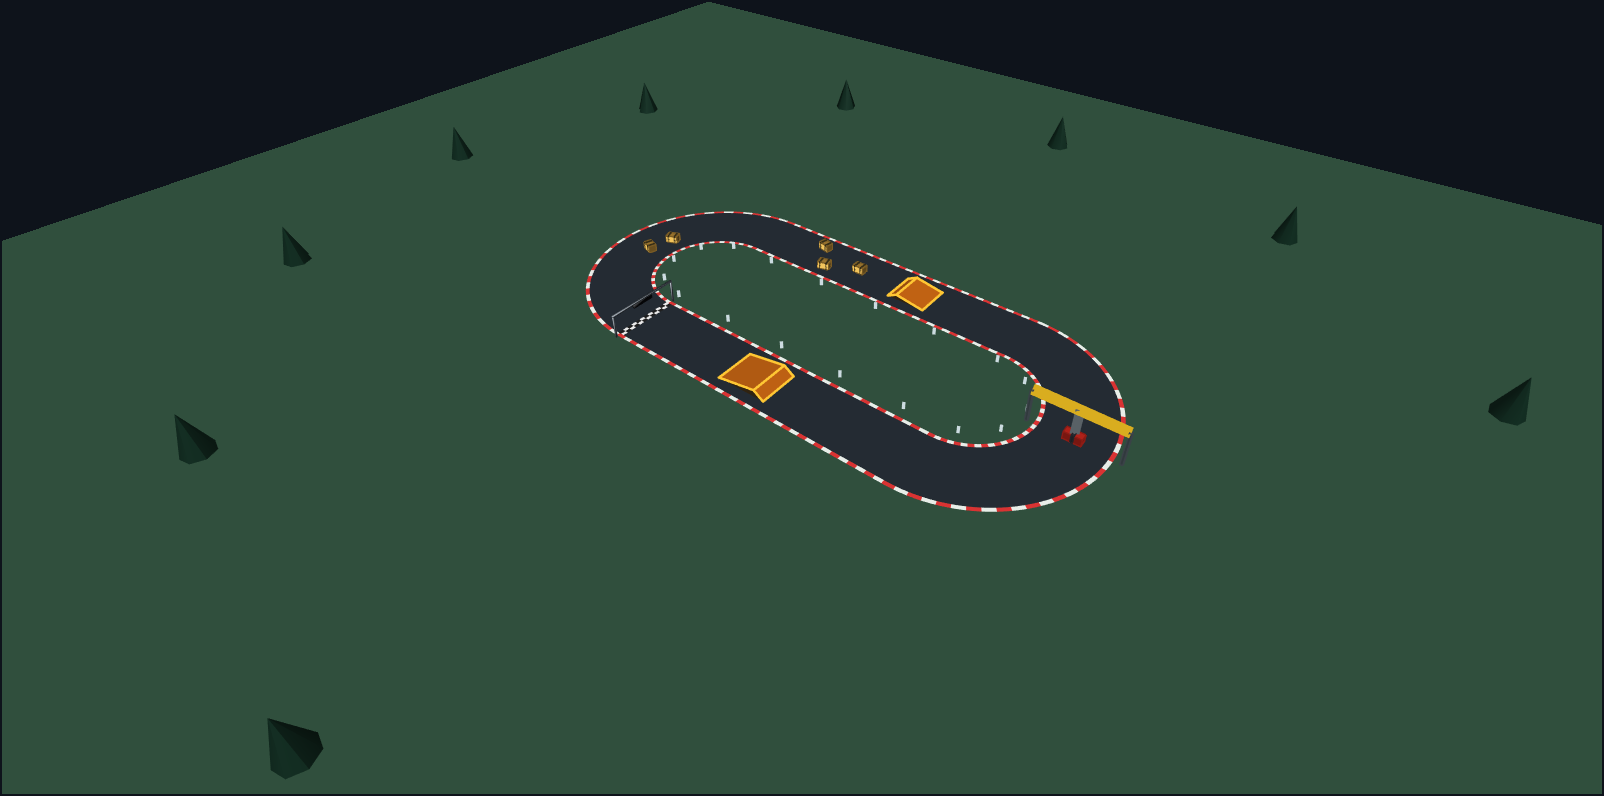
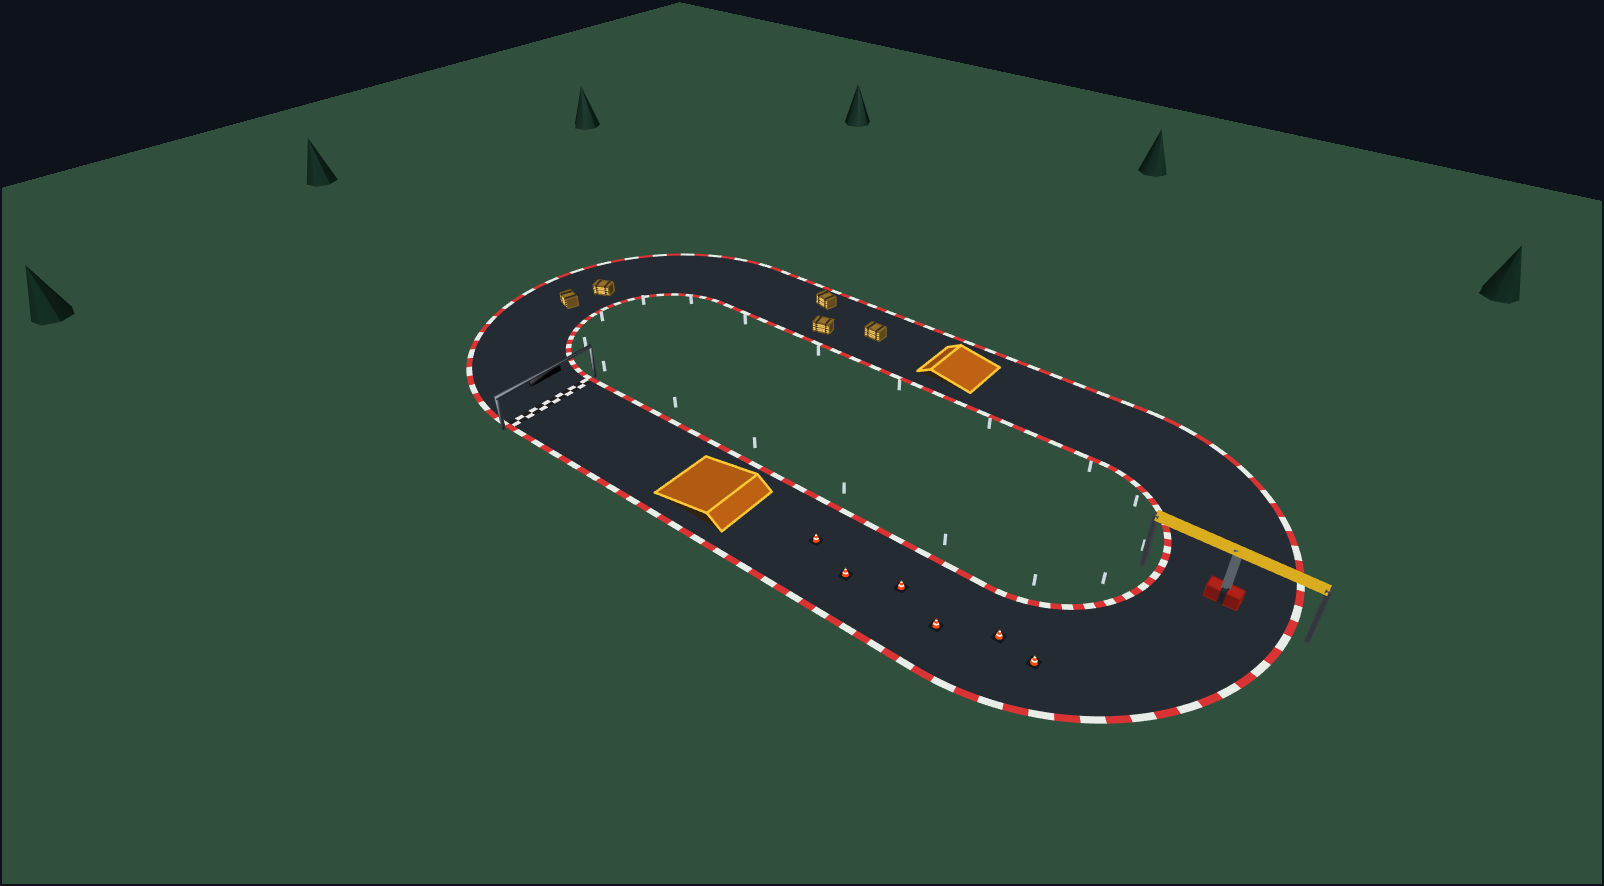
Add movable traffic cones to obstacle course

diff --git a/tests/phx_kart_obstacle_test.m b/tests/phx_kart_obstacle_test.m
@@ -14,6 +14,15 @@ function phx_kart_obstacle_test
     assert(norm(props(1).Position-initial)>.5,'Hay must move after a real kart contact.');
     phxkart.stepCourse(T,props,0,0,true);
     assert(norm(props(1).Position-initial)<1e-9,'Reset must restore hay.');
+    cone=size(T.course.hay,1)+1; initialCone=props(cone).Position;
+    kart.Position=initialCone+[-3 0 -.15]; kart.EulerAngles=[0 0 0];
+    kart.LinearVelocity=[6 0 0]; kart.AngularVelocity=[0 0 0];
+    for k=1:100
+        phxkart.stepCourse(T,props,k*.008,.008,false); sim.step(.008,1,-1);
+    end
+    assert(norm(props(cone).Position-initialCone)>.5,'Cone must slide after contact.');
+    phxkart.stepCourse(T,props,0,0,true);
+    assert(norm(props(cone).Position-initialCone)<1e-9,'Reset must restore cones.');
     % Put a kart in the pendulum sweep and let the moving PHX collider hit it.
     kart.Position=[36 -.3 .25]; kart.LinearVelocity=[0 0 0]; kart.AngularVelocity=[0 0 0];
     speed=0;
@@ -41,7 +50,7 @@ function phx_kart_obstacle_test
     cleanFigure=onCleanup(@()closeValid(f)); api=getappdata(f,'PHXKartDemo');
     for k=1:50, api.Step(); end
     s=api.Snapshot(); assert(size(s.Position,1)==10 && all(isfinite(s.Position),'all'));
-    fprintf('PASS: obstacle course, movable hay, hammer contact, jump/landing, pause/reset and 10-kart split screen.\n');
+    fprintf('PASS: obstacle course, movable hay/cones, hammer contact, jump/landing, pause/reset and 10-kart split screen.\n');
 end
 function closeValid(f), if isgraphics(f), close(f); end, end
 function dispose(sim,bodies)

diff --git a/+phxkart/stepCourse.m b/+phxkart/stepCourse.m
@@ -2,12 +2,17 @@ function stepCourse(T,B,time,dt,reset)
 %STEPCOURSE Ground drag for movable hay; timed physical hammer collider.
     if isempty(B), return; end
     for k=1:numel(B)-1
+        if k<=size(T.course.hay,1)
+            initial=T.course.hay(k,:); height=.55; resistance=2.8;
+        else
+            initial=T.course.cones(k-size(T.course.hay,1),:); height=.4; resistance=4;
+        end
         p=B(k).Position; a=B(k).EulerAngles; v=B(k).LinearVelocity; w=B(k).AngularVelocity;
         if reset
-            p=[T.course.hay(k,1:2) .55]; a=[0 0 T.course.hay(k,3)]; v=[0 0 0]; w=v;
+            p=[initial(1:2) height]; a=[0 0 initial(3)]; v=[0 0 0]; w=v;
         end
-        B(k).Position=[p(1:2) .55]; B(k).EulerAngles=[0 0 a(3)];
-        speed=norm(v(1:2)); drag=max(0,1-2.8*dt/max(speed,1e-9));
+        B(k).Position=[p(1:2) height]; B(k).EulerAngles=[0 0 a(3)];
+        speed=norm(v(1:2)); drag=max(0,1-resistance*dt/max(speed,1e-9));
         B(k).LinearVelocity=[v(1:2)*drag 0]; B(k).AngularVelocity=[0 0 w(3)*exp(-2*dt)];
     end
     [p,R,v]=phxkart.hammerPose(T.course,time);

diff --git a/+phxkart/courseBodies.m b/+phxkart/courseBodies.m
@@ -1,5 +1,5 @@
 function B = courseBodies(T)
-%COURSEBODIES Movable hay and a kinematic pendulum hammer.
+%COURSEBODIES Movable hay/cones and a kinematic pendulum hammer.
     B=phx.Body.empty;
     if isempty(T.course), return; end
     for k=1:size(T.course.hay,1)
@@ -7,6 +7,12 @@ function B = courseBodies(T)
         B(k)=phx.Body([],'Mass',32,'Inertia',[9 13 15], ...
             'Position',[p(1:2) .55],'EulerAngles',[0 0 p(3)], ...
             'Shape',{'Box','Size',[1.8 1.2 1.1]},'Friction',[.5 0 0],'Restitution',.08);
+    end
+    for k=1:size(T.course.cones,1)
+        p=T.course.cones(k,:);
+        B(end+1)=phx.Body([],'Mass',4,'Inertia',[.25 .25 .25], ...
+            'Position',[p(1:2) .4],'EulerAngles',[0 0 p(3)], ...
+            'Shape',{'Box','Size',[.7 .7 .8]},'Friction',[.4 0 0],'Restitution',.1);
     end
     [p,R]=phxkart.hammerPose(T.course,0);
     B(end+1)=phx.Body([],'Type','kinematic','Position',p, ...

diff --git a/+phxkart/drawCourse.m b/+phxkart/drawCourse.m
@@ -23,6 +23,19 @@ function G = drawCourse(ax,T)
                 'Color',[.95 .77 .36]);
         end
     end
+    G.cones=gobjects(1,size(C.cones,1));
+    for k=1:numel(G.cones)
+        G.cones(k)=hgtransform('Parent',ax,'Tag','KartTrafficCone');
+        box(G.cones(k),[0 0 -.355],[.72 .72 .09],[.12 .14 .16]);
+        levels=[.09 .30 .43 .60 .71 .80];
+        for band=1:numel(levels)-1
+            z=levels(band:band+1); radius=.30*(.83-z)/.74;
+            [x,y,h]=cylinder(radius,12);
+            color=[1 .29 .035]; if mod(band,2)==0, color=[.96 .96 .9]; end
+            surf('Parent',G.cones(k),'XData',x,'YData',y,'ZData',h*diff(z)+z(1)-.4, ...
+                'FaceColor',color,'EdgeColor','none','FaceLighting','none');
+        end
+    end
     side=[-sin(C.yaw) cos(C.yaw) 0];
     for s=[-1 1]
         p=C.pivot+s*6*side;

diff --git a/+phxkart/track.m b/+phxkart/track.m
@@ -58,6 +58,7 @@ function T = track(name)
         T.course.ramps(1)=struct('center',[-5 -14],'yaw',0,'length',6,'height',1.1,'width',6,'descent',1.5);
         T.course.ramps(2)=struct('center',[8 14],'yaw',pi,'length',4.5,'height',.8,'width',5.5,'descent',1.5);
         T.course.hay=[-5 14 0;-10 11.7 .25;-13 16 -.2;-34 3 .4;-35 -1 -.3];
+        T.course.cones=[9 -13.25 0;13 -14.75 0;17 -13.25 0;21 -14.75 0;25 -12.9 0;28 -13.4 0];
         T.course.pivot=[36 0 5]; T.course.yaw=pi/2;
         T.course.arm=4.2; T.course.amplitude=.85; T.course.period=3.6;
     end

diff --git a/+phxkart/updateCourse.m b/+phxkart/updateCourse.m
@@ -1,6 +1,9 @@
 function updateCourse(G,T,B)
     if isempty(G), return; end
     for k=1:numel(G.hay), G.hay(k).Matrix=[B(k).Orientation B(k).Position';0 0 0 1]; end
+    for k=1:numel(G.cones)
+        b=B(numel(G.hay)+k); G.cones(k).Matrix=[b.Orientation b.Position';0 0 0 1];
+    end
     b=B(end); G.head.Matrix=[b.Orientation b.Position';0 0 0 1];
     p=T.course.pivot; q=b.Position;
     set(G.arm,'XData',[p(1) q(1)],'YData',[p(2) q(2)],'ZData',[p(3) q(3)]);

diff --git a/README.md b/README.md
@@ -71,7 +71,7 @@ phx_kart_demo(Start=true, Track="obstacle")
 - **Technical Circuit** (default): flowing corners, a tight chicane and an alternative obstacle route inspired by the Rettifilo escape lane. Both routes count when their checkpoints are followed.
 - **Oval:** a simple circuit for getting used to the controls.
 - **Figure eight:** an at-grade crossing, a banked outer corner with a red high-grip surface, barriers and trackside banners.
-- **Obstacle Course:** a compact stadium loop with two jump ramps, a swinging hammer and five movable hay bales. Keep some speed for the jumps, time your passage past the hammer, and push the bales out of your way. **R** restores the obstacles as well as the karts. Available in single-player, split screen and with NPCs.
+- **Obstacle Course:** a compact stadium loop with two jump ramps, a swinging hammer, five movable hay bales and six orange-and-white traffic cones arranged as a slalom after the first jump. Keep some speed for the jumps, time your passage past the hammer, and push the bales or cones out of your way. **R** restores the obstacles as well as the karts. Available in single-player, split screen and with NPCs.
 - **0–8 NPCs**, with **Easy / Medium / Hard / Race** difficulty; up to ten karts with two human players.
 - Chase cameras, equal split-screen views, brake lights, start lights, reverse, lap timing and checkpoints.
 - HUD speed, engine RPM, gear, grip indication, lap information and throttle/brake/steering bars.
@@ -82,7 +82,7 @@ There is no fixed race length or championship. The single-speed and manual drive
 
 PHX handles rigid-body stepping and physical contacts. The demo supplies its own approximate engine, tyre, drivetrain and control models. Vehicle motion is primarily planar, with additional banked-surface forces and visual tilt. Grip and steering assistance have been tuned for keyboard play, including intentionally increased grip on the red surface.
 
-The obstacle course adds vertical motion: ramp support, ballistic flight under gravity and landing. Tyre forces are disabled while airborne; the HUD shows **AIRBORNE**. This remains a simplified height-field model rather than a full suspension/rollover simulation. The hammer is a prescribed pendulum with a PHX kinematic collider, and hay bales are dynamic PHX bodies constrained to the ground with sliding drag. NPCs use a conservative speed cap on this course and can be struck or blocked by obstacles.
+The obstacle course adds vertical motion: ramp support, ballistic flight under gravity and landing. Tyre forces are disabled while airborne; the HUD shows **AIRBORNE**. This remains a simplified height-field model rather than a full suspension/rollover simulation. The hammer is a prescribed pendulum with a PHX kinematic collider. Hay bales and lightweight cones are dynamic PHX bodies with simplified box colliders, constrained upright to the ground with sliding drag. NPCs use a conservative speed cap on this course and can be struck or blocked by obstacles.
 
 ![Obstacle course overview](docs/obstacle-course.png)
 
